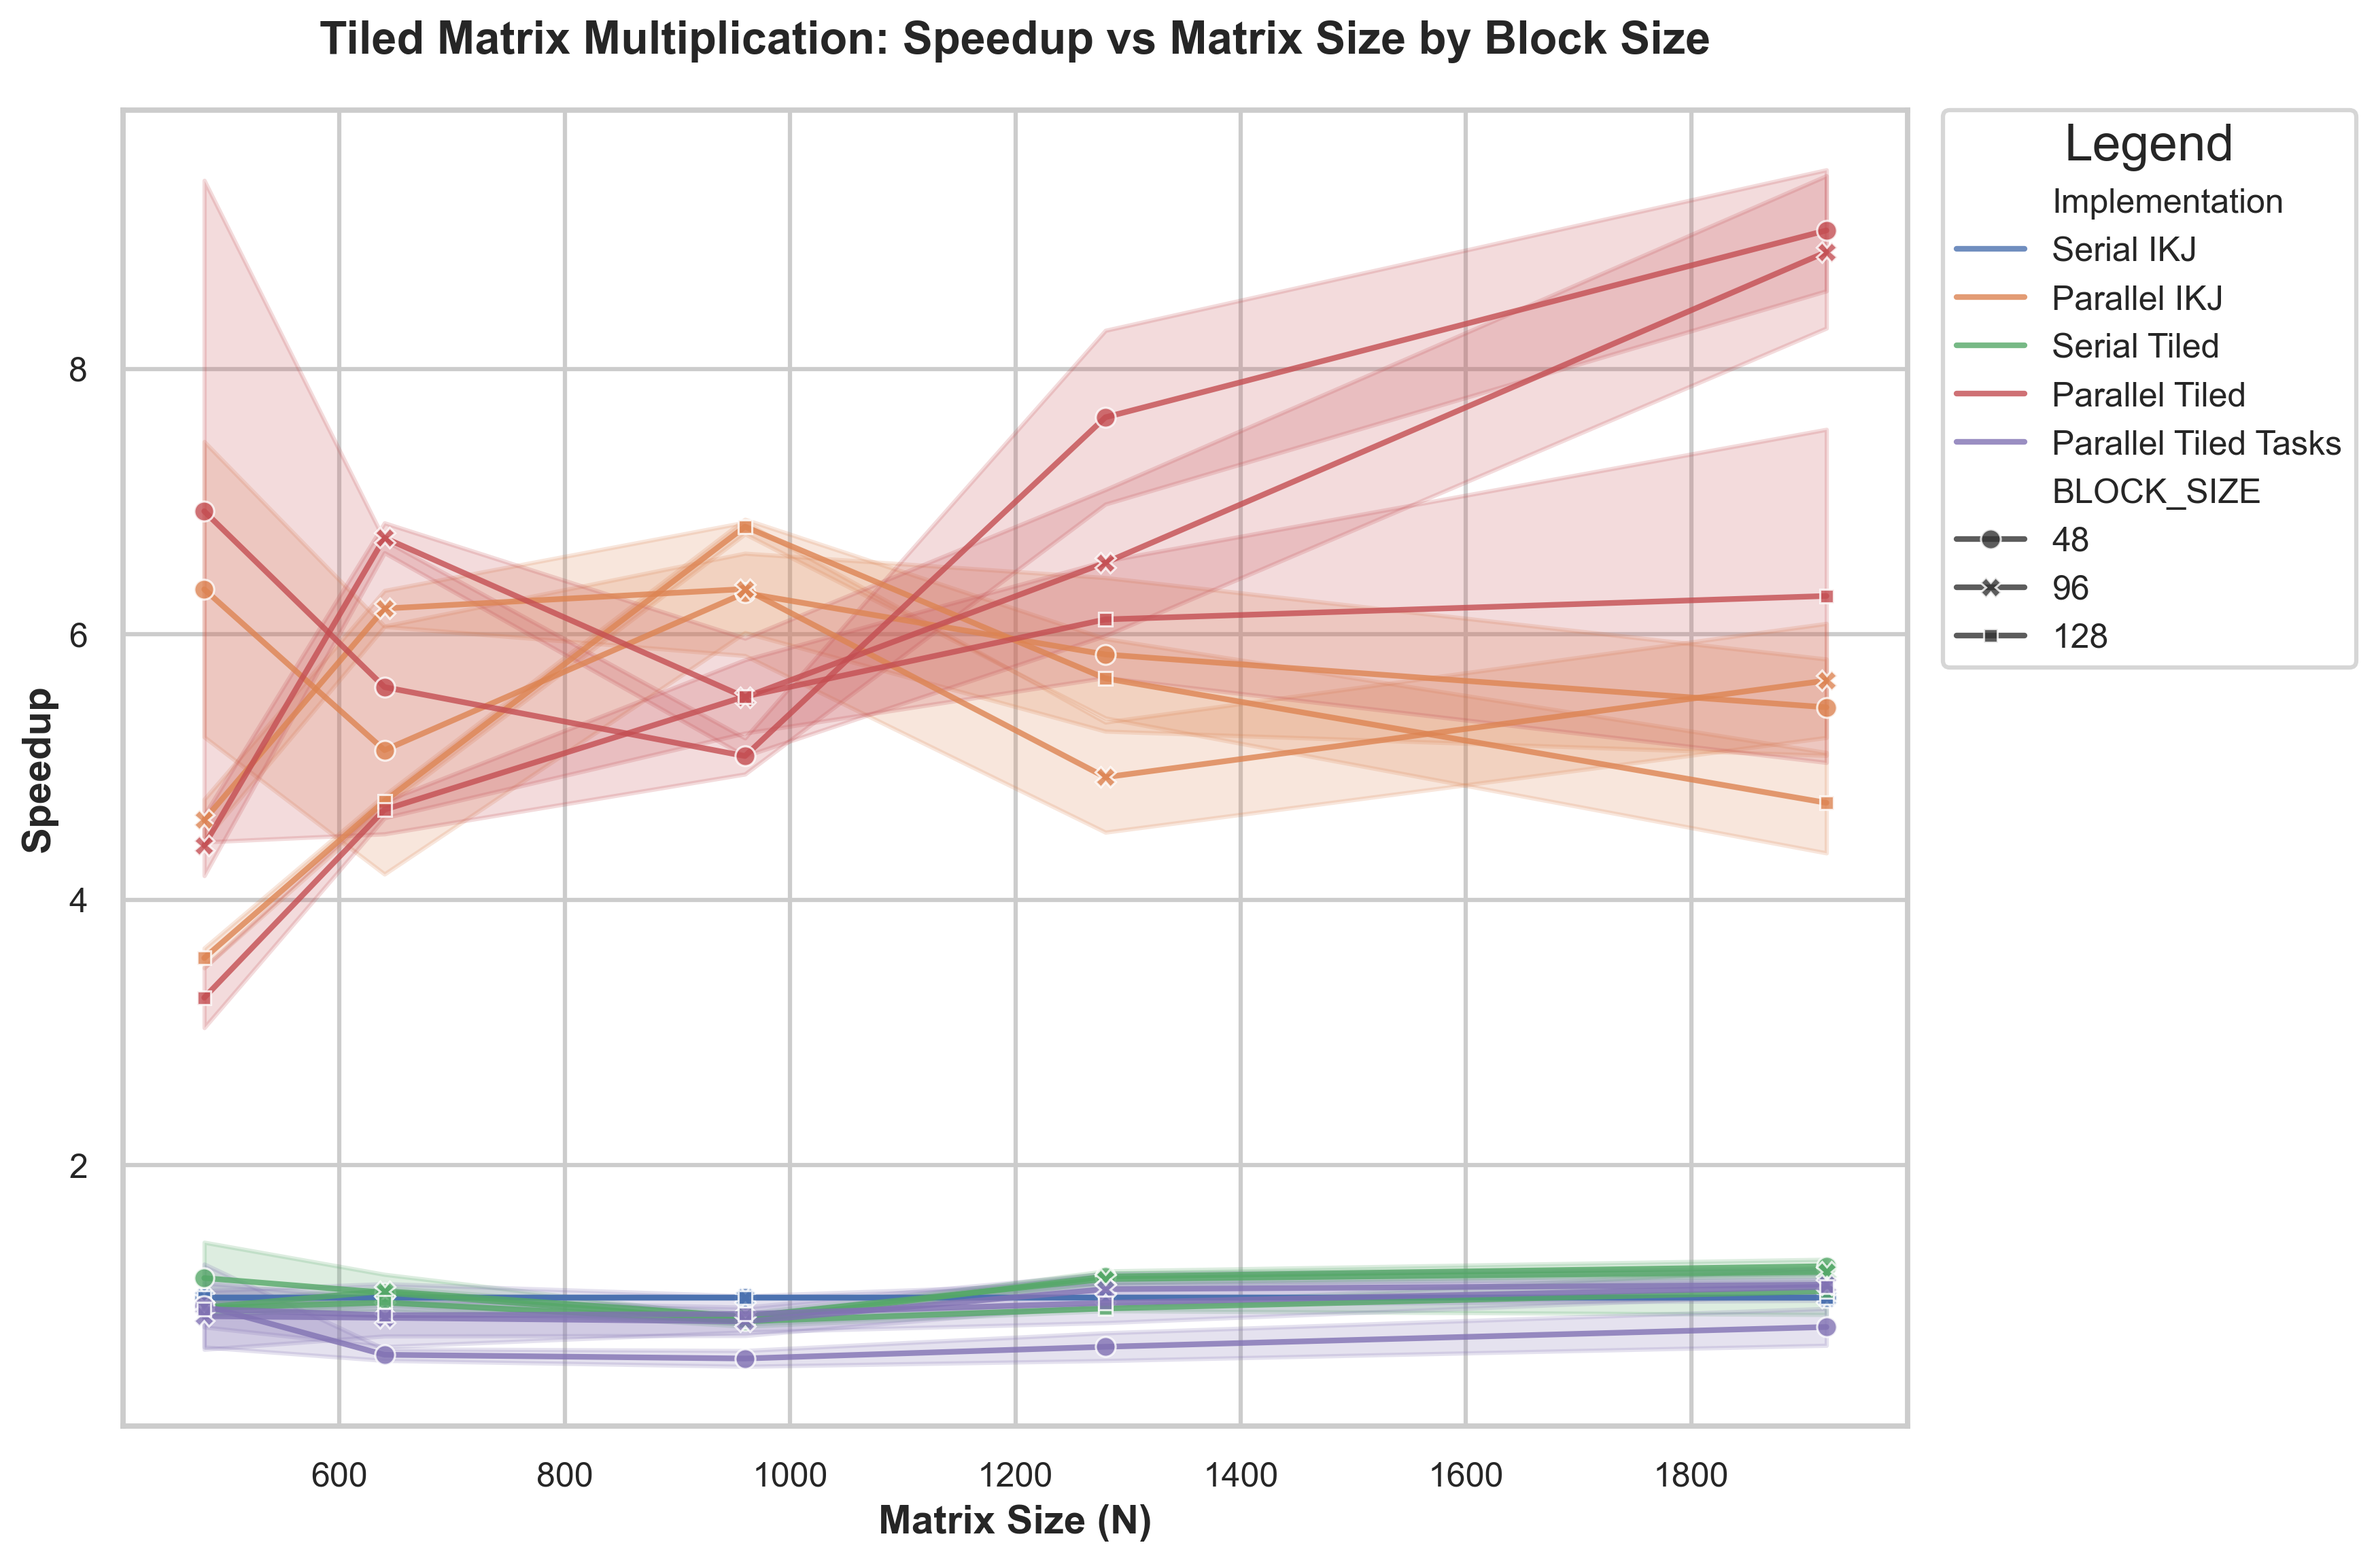
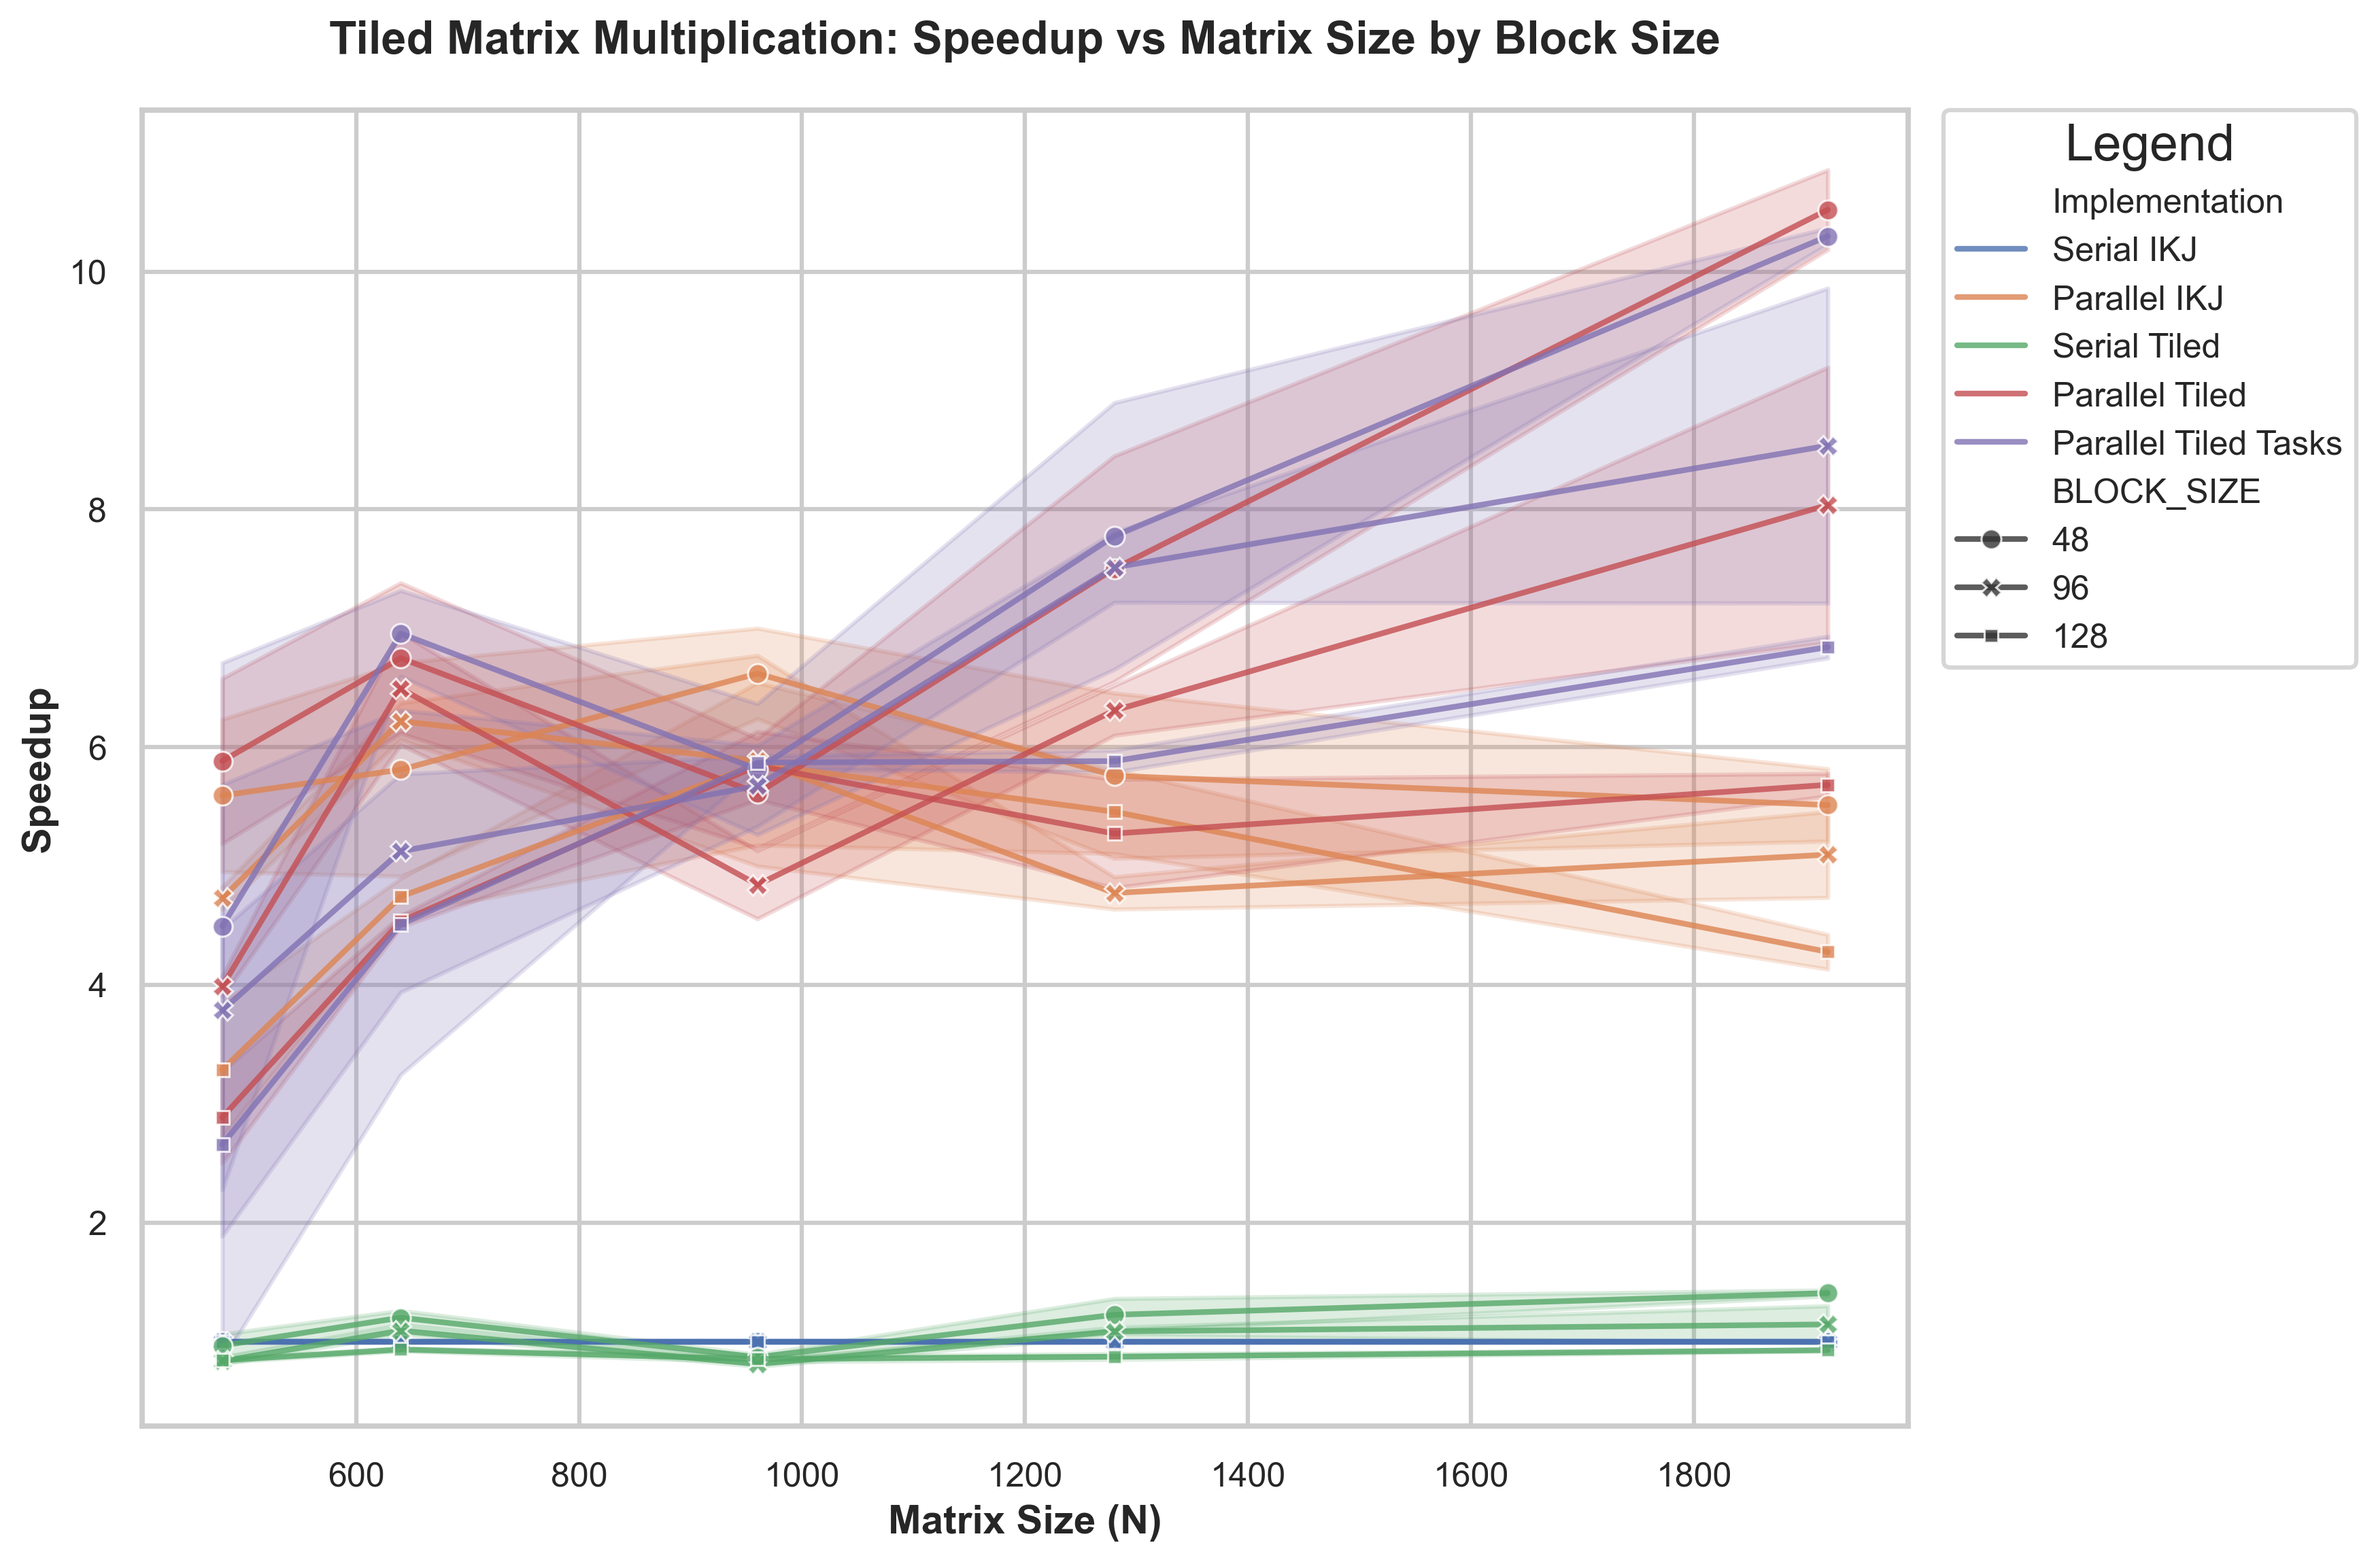
Update tiled benchmark results and plots

diff --git a/benchmark/src/tiled/parallel/mm_tiled_parallel.c b/benchmark/src/tiled/parallel/mm_tiled_parallel.c
@@ -19,16 +19,15 @@ double parallel_multiply_tiled_tasks(const Matrix *restrict a,
 #pragma omp single
     for (block_i = 0; block_i < n; block_i += block_size) {
       for (block_j = 0; block_j < n; block_j += block_size) {
+#pragma omp task
         for (block_k = 0; block_k < n; block_k += block_size) {
           int i_end = (block_i + block_size > n) ? n : (block_i + block_size);
           int j_end = (block_j + block_size > n) ? n : (block_j + block_size);
           int k_end = (block_k + block_size > n) ? n : (block_k + block_size);
-#pragma omp task
           for (i = block_i; i < i_end; i++) {
             for (k = block_k; k < k_end; k++) {
               temp = a->data[i][k];
               for (j = block_j; j < j_end; j++) {
-#pragma omp atomic
                 c->data[i][j] += temp * b->data[k][j];
               }
             }
